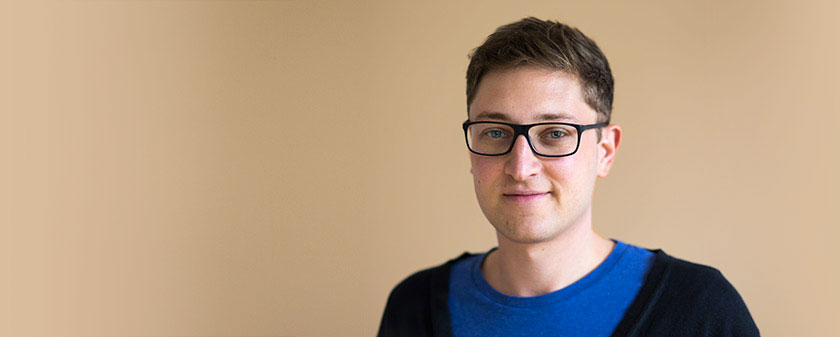
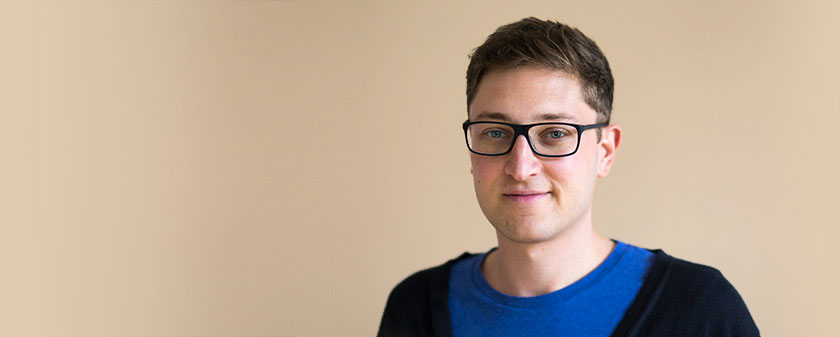
change intro color

diff --git a/src/less/page.index.less b/src/less/page.index.less
@@ -3,7 +3,8 @@
 		overflow: hidden;
 		position: relative;
 		line-height: 0;
-		background-color: #d0d0d0;
+		// background-color: #d0d0d0;
+		background-color: rgb(223, 203, 176);
 	}
 
 	.sf-intro-headline {
